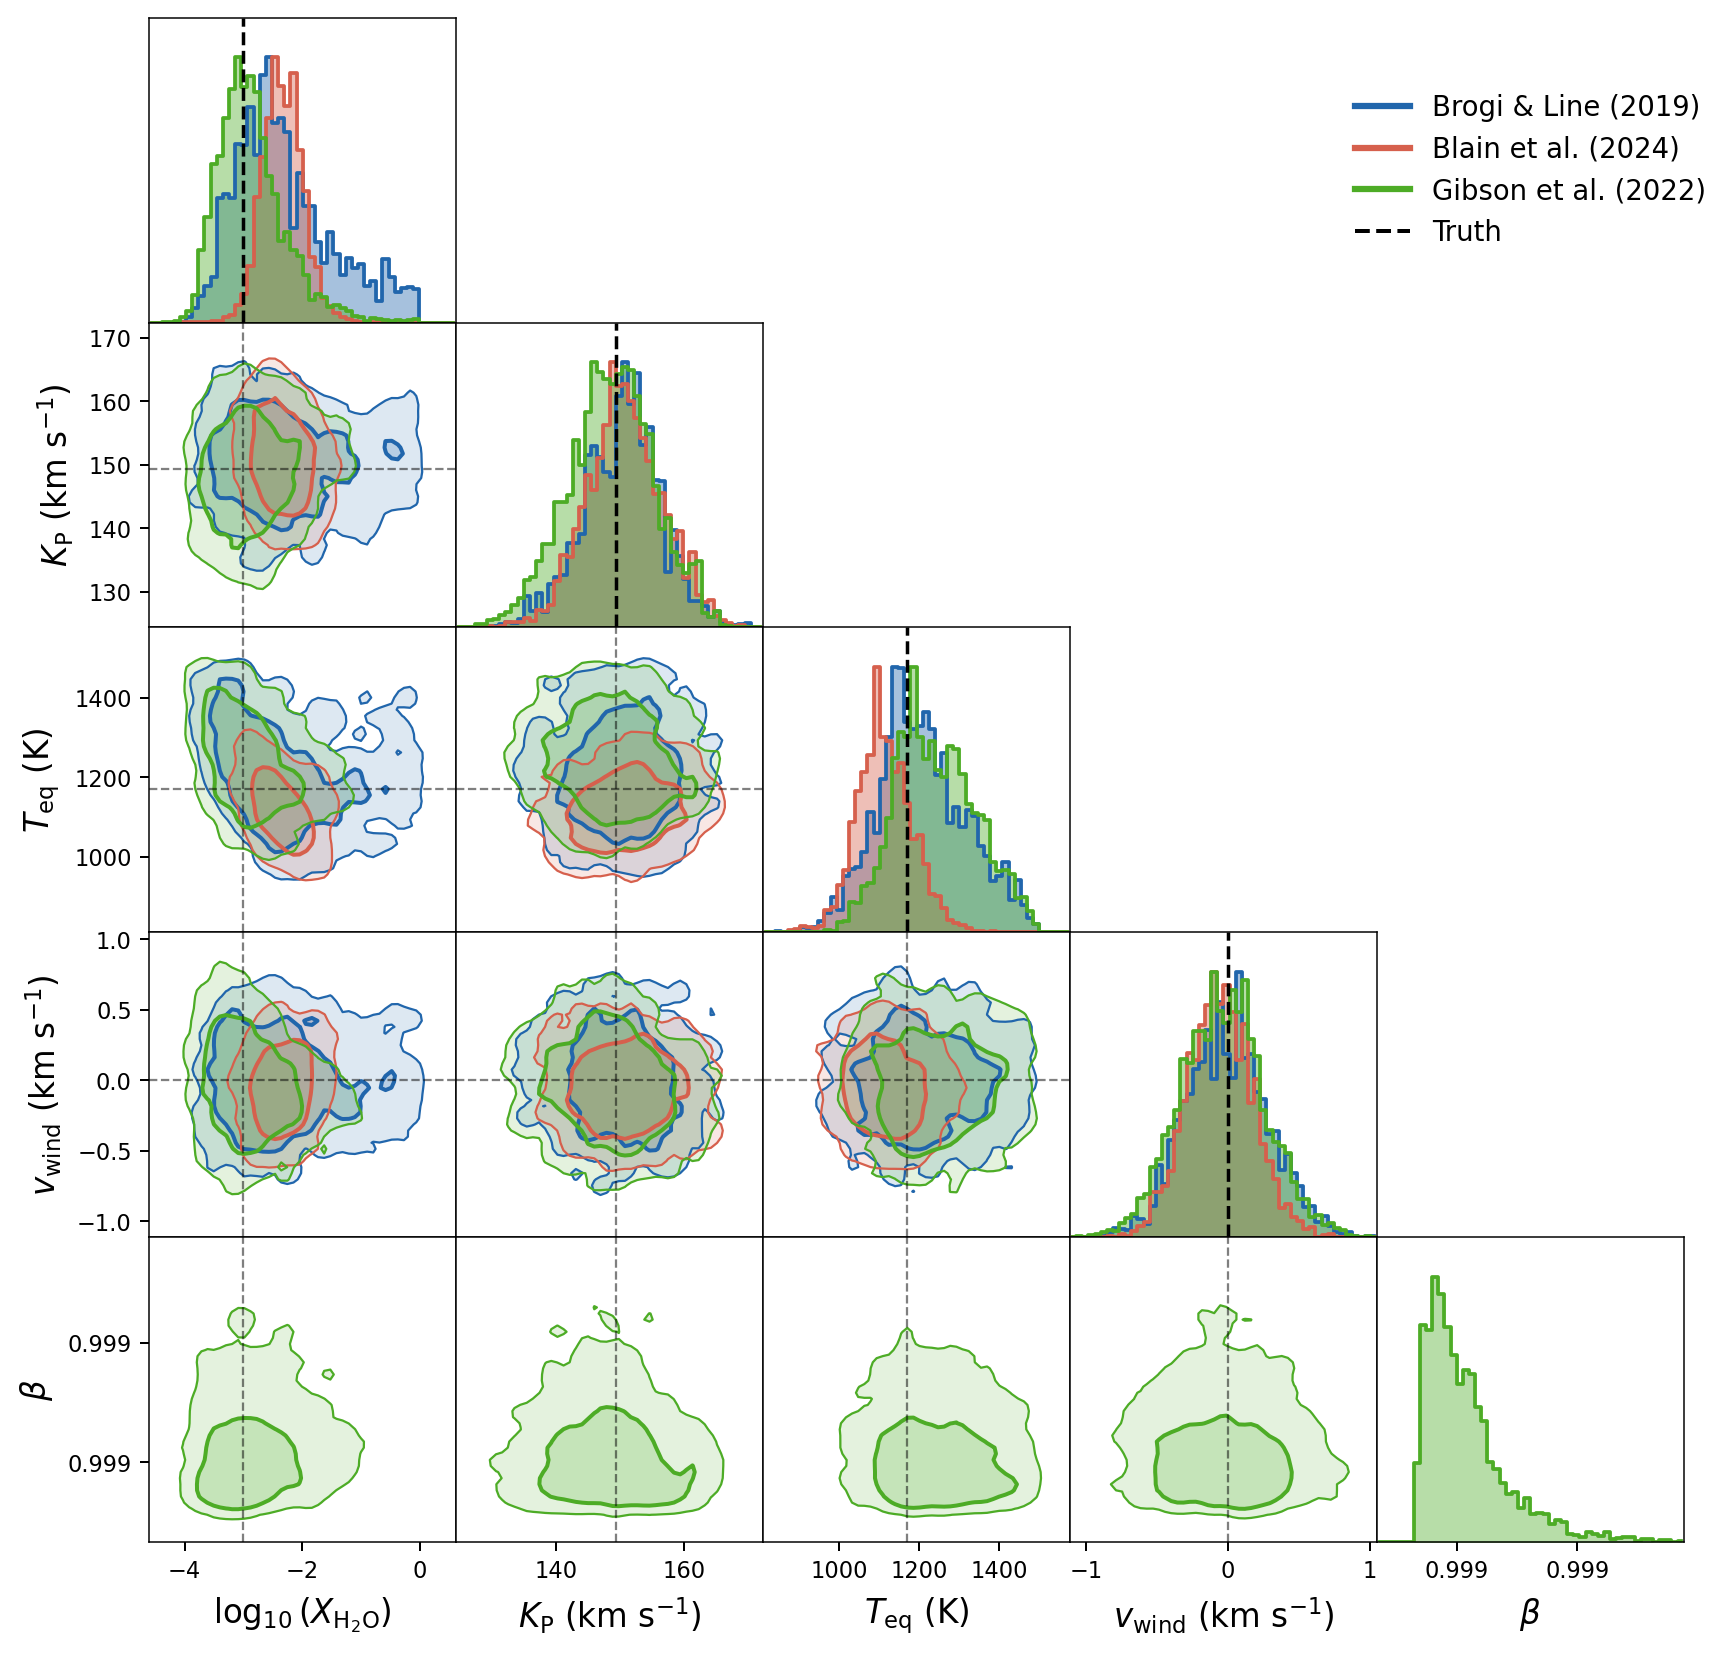
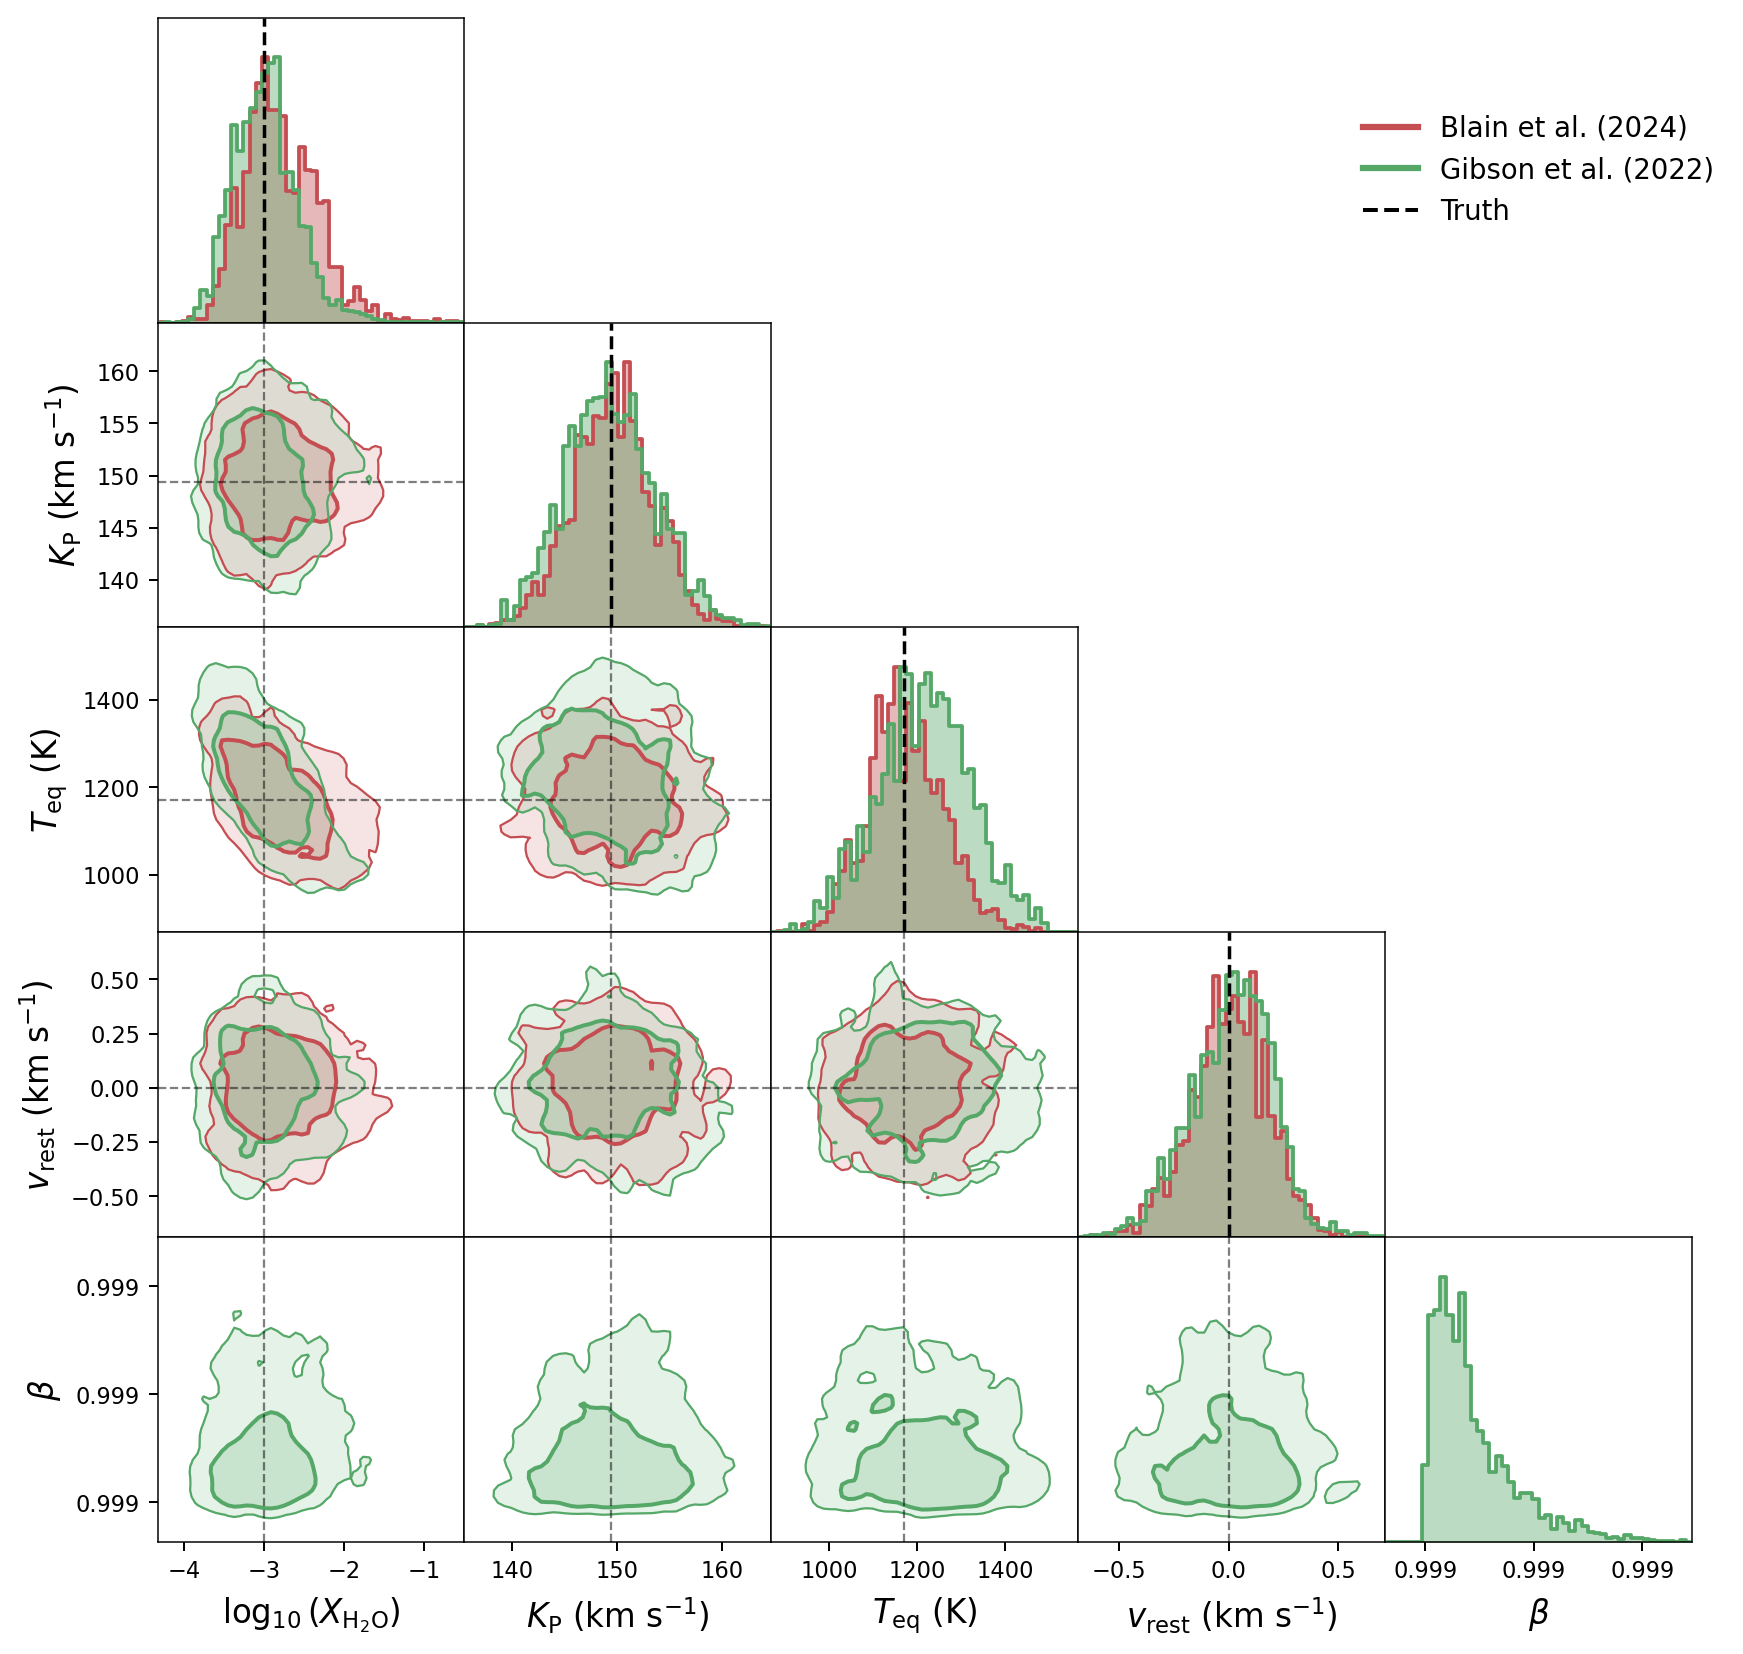
Tutorial 7 noiseless bias test with Blain24 and Gibson22; separate preparation and retrieval-framework docs; add petitRADTRANS pointers

diff --git a/docs/tutorial.md b/docs/tutorial.md
@@ -695,6 +695,8 @@ The `dimensionality` field selects the free parameters, and the `log_likelihood`
 
 We note that `1D_Gibson22` must be paired with `Gibson22`, and no other. The β parameter is the noise-scaling degree of freedom that makes the Gibson22 formulation self-consistent; pairing it with Blain24 or BL19 would sample β without ever using it, yielding a meaningless posterior. The simulator raises a `ValueError` on any invalid combination.
 
+The ASL19 preparation pipeline (Sánchez-López et al. 2019) was introduced as a detection method and does not define a retrieval likelihood of its own. Because it is SYSREM-based, retrievals that use the ASL19 preparation fall back to the Gibson22 framework: the forward model is filtered with the same linear projection and evaluated with the Gibson22 log-likelihood (with the β noise scaling). In practice this means pairing `pipeline.name: ASL19` with `dimensionality: 1D_Gibson22` and `log_likelihood: Gibson22`.
+
 The `live_points` field sets the number of active points that MultiNest maintains during nested sampling. A larger value produces a more accurate posterior and a more reliable evidence estimate, at a run time that grows roughly linearly with it. In our experience 200 is adequate for a four-parameter retrieval, and 500 to 1000 is appropriate for publication-quality posteriors. The full run time is typically one to four hours, depending on `live_points`, the number of orders, and the machine.
 
 The retrieval requires three additional dependencies:
@@ -724,7 +726,7 @@ Posterior distributions from a `1D` Blain24 retrieval of a single noiseless CARM
 
 ## Tutorial 7: Assessing retrieval pipeline bias
 
-> **Approximate run time:** the illustrative scripts run in seconds; each single-order retrieval takes ~10 to 20 min, so the full set of six (three noiseless, three noisy) is ~1 to 3 hours.
+> **Approximate run time:** the illustrative scripts run in seconds; each single-order retrieval takes ~20 to 80 min, so the full set of four (two noiseless, two noisy) is ~2 to 4 hours.
 
 Before trusting retrieved atmospheric parameters from real data, it is essential to verify that the pipeline itself does not introduce systematic offsets in the posterior. This is commonly referred to as a **pipeline bias test**, or **unbiasedness test**. EXoPLORE supports a clean, fast version of this test using noiseless simulated data.
 
@@ -736,7 +738,7 @@ A retrieval pipeline is *unbiased* if, when the forward model used in the likeli
 
 In order to isolate pure pipeline systematics, the test should be run with `noiseless: true`, which removes the stochastic noise floor. With perfect noiseless data and the correct forward model, the likelihood should peak sharply at the injected truth. Any offset is consequently pure pipeline bias, not noise. With noisy data, biases can be hidden inside the noise uncertainty and require many injection-recovery realisations to detect.
 
-> **We note that** SYSREM-based pipelines (ASL19, Gibson22) may be problematic with noiseless data, since SYSREM can over-subtract the signal in the absence of noise. The polynomial pipelines BL19 and Blain24 are therefore the natural choices for a noiseless bias test. Gibson22 remains usable in this regime provided its β parameter is pinned near 1 (see below).
+> **We note that** SYSREM-based pipelines (ASL19, Gibson22) may be problematic with noiseless data, since SYSREM can over-subtract the signal in the absence of noise. The polynomial pipeline Blain24 is therefore a natural choice for a noiseless bias test. Gibson22 remains usable in this regime provided its β parameter is pinned near 1 (see below). We omit the BL19 log-likelihood from this test for now: its scale-free form collapses to a near-delta posterior on noiseless data, which magnifies any residual model-data mismatch into a spurious offset, so it is not a reliable estimator of pipeline bias in this regime.
 
 ### Step 1: Configure the test
 
@@ -762,7 +764,7 @@ To keep the retrieval fast (minutes rather than hours), we restrict the simulati
     }
   },
   "pipeline": {
-    "name": "BL19",
+    "name": "Blain24",
     "prepare_template": true
   },
   "retrieval": {
@@ -776,12 +778,9 @@ To keep the retrieval fast (minutes rather than hours), we restrict the simulati
 }
 ```
 
-Ready-made configs are provided for each pipeline. Run the three retrievals sequentially:
+Ready-made configs are provided for each pipeline. Run the two retrievals sequentially:
 
 ```bash
-# Brogi & Line (2019), BL19 preparation pipeline, BL19 log-likelihood
-python -u scripts/run_exoplore.py configs/hd189733b_carmenes_retrieval_bl19_noiseless.json --run
-
 # Blain et al. (2024), Blain24 preparation pipeline, Blain24 log-likelihood
 python -u scripts/run_exoplore.py configs/hd189733b_carmenes_retrieval_blain24_noiseless.json --run
 
@@ -789,11 +788,11 @@ python -u scripts/run_exoplore.py configs/hd189733b_carmenes_retrieval_blain24_n
 python -u scripts/run_exoplore.py configs/hd189733b_carmenes_retrieval_gibson22_noiseless.json --run
 ```
 
-Each run takes a few minutes at 200 live points on a single order.
+Each run takes tens of minutes at 200 live points on a single order.
 
 ### Step 2: Run
 
-See the terminal commands in Step 1 above. Run all three configs to reproduce the overlay corner plot.
+See the terminal commands in Step 1 above. Run both configs to reproduce the overlay corner plot.
 
 ### Step 3: Interpret the results
 
@@ -806,15 +805,14 @@ Open `<run_name>/plots/retrieval_night_0_corner.pdf`. The truth values (plotted 
 | v_rest (km/s) | Posterior offset from 0 (no net velocity injected) |
 | log₁₀(VMR) | Broader, but centred near the injected abundance |
 
-The log-evidence `ln Z` printed to the terminal should be a meaningful negative number (e.g. -10 to -50). A value near 0 indicates the likelihood is flat and the test has failed (the run log should be checked for error messages).
+The log-evidence `ln Z` printed to the terminal by MultiNest is a useful sanity check: it should be a finite, well-behaved value rather than a diverging or `NaN` one (the run log should be checked for error messages if it is).
 
-**Passing criterion:** Kp, T_eq, and v_rest posteriors all cover their truth values within 1 to 2σ. A representative result:
+**Passing criterion:** Kp, T_eq, and v_rest posteriors all cover their truth values within 1 to 2σ. A representative Blain24 result:
 
 ```
-Kp   = 149.9 km/s  (truth 149.4 km/s)   ← <1 km/s offset
-T_eq = 1186  K     (truth 1170 K)        ← within 1σ
-v_rest = -0.06 km/s (truth 0)            ← essentially zero
-ln Z = -10.8                             ← meaningful evidence
+Kp   = 149.6 km/s  (truth 149.4 km/s)   ← within 1 sigma
+T_eq = 1175  K     (truth 1170 K)        ← within 1 sigma
+v_rest = 0.0 km/s  (truth 0)             ← essentially zero
 ```
 
 confirms no pipeline bias on the dynamical parameters.
@@ -822,19 +820,19 @@ confirms no pipeline bias on the dynamical parameters.
 :::{figure} figures/tutorial_retrieval_bias_corner.png
 :width: 90%
 :align: center
-Posterior probability distributions for the retrieved atmospheric parameters of HD 189733 b (CARMENES NIR, order 23, noiseless simulation), obtained with the log-likelihood formulations of Brogi & Line (2019; blue), Blain et al. (2024; red), and Gibson et al. (2022; green) using nested sampling with 200 live points. Gibson et al. (2022) includes the additional noise-scaling parameter β, shown in the bottom row and column; β is pinned near 1 via an informative prior [0.999, 1.001] (see below). Contours enclose the 68 and 95 per cent credible regions. Black dashed lines mark the injected truth values (log₁₀(X<sub>H₂O</sub>) = -3.0, K<sub>P</sub> = 149.4 km s<sup>-1</sup>, T<sub>eq</sub> = 1170 K, v<sub>rest</sub> = 0 km s<sup>-1</sup>, β = 1). All three formulations recover all truth values within 1 to 2σ.
+Posterior probability distributions for the retrieved atmospheric parameters of HD 189733 b (CARMENES NIR, order 23, noiseless simulation), obtained with the log-likelihood formulations of Blain et al. (2024; red) and Gibson et al. (2022; green) using nested sampling with 200 live points. Gibson et al. (2022) includes the additional noise-scaling parameter β, shown in the bottom row and column; β is pinned near 1 via an informative prior [0.999, 1.001] (see below), and its truth line is omitted since it is fixed by construction. Contours enclose the 68 and 95 per cent credible regions. Black dashed lines mark the injected truth values (log₁₀(X<sub>H₂O</sub>) = -3.0, K<sub>P</sub> = 149.4 km s<sup>-1</sup>, T<sub>eq</sub> = 1170 K, v<sub>rest</sub> = 0 km s<sup>-1</sup>). Both formulations recover all truth values within 1 to 2σ. The BL19 log-likelihood is omitted from this noiseless test (see the note above).
 :::
 
-Once you have run the three retrievals, the overlay corner plot can be generated with:
+Once you have run the two retrievals, the overlay corner plot can be generated with:
 
 ```bash
 python scripts/plot_corner_overlay.py \\
   --output-root /path/to/EXoPLORE_clean_run/HD189733b/CARMENES_NIR/transit \\
-  --runs  BL19_withsignal_1nights_SNR_comb1_simdata_noiseless_stdnoisex1 \\
-          Blain24_withsignal_1nights_SNR_comb1_simdata_noiseless_stdnoisex1 \\
-          Gibson22_withsignal_1nights_SNR_comb1_simdata_noiseless_stdnoisex1 \\
-  --labels "Brogi & Line (2019)" "Blain et al. (2024)" "Gibson et al. (2022)" \\
+  --runs  Blain24_withsignal_1nights_SNR_comb1_simdata_noiseless_stdnoisex1 \\
+          Gibson22_withsignal_N4_1nights_SNR_comb1_simdata_noiseless_stdnoisex1 \\
+  --labels "Blain et al. (2024)" "Gibson et al. (2022)" \\
   --truths -3.0 149.4 1170.0 0.0 \\
+  --colors "#c44e52" "#55a868" \\
   --output docs/figures/tutorial_retrieval_bias_corner.png
 ```
 

diff --git a/docs/concepts.md b/docs/concepts.md
@@ -179,25 +179,27 @@ Each recipe was introduced by a specific study, on a specific instrument and
 target. We summarise below what each does and where it was developed, and name
 the EXoPLORE routines that implement it.
 
+This section concerns the **data preparation** only. The log-likelihood
+formulations used in the retrievals (BL19, Blain24, Gibson22) are described
+separately in [Section 5](#5-from-cross-correlation-to-a-likelihood).
+
 - **BL19** (Brogi & Line [2019](https://doi.org/10.3847/1538-3881/aaffd3), AJ,
-  157, 114). Introduced as part of a cross-correlation-to-likelihood retrieval
-  framework, validated on simulated photon-noise-dominated CRIRES K-band data and
-  applied to real CRIRES K-band spectra of HD 209458 b and HD 189733 b. Each
-  spectrum is normalised by the median of its brightest pixels, and the tellurics
-  are removed in two stages: a low-order polynomial fit to the master (median)
-  spectrum, then a per-channel polynomial in time. Implemented in
-  `exoplore.pipelines.bl19` as `pipeline_BL19_norm` and `pipeline_BL19_tellcorr`,
-  with telluric masking via `mask_tellurics`.
+  157, 114). The preparation was demonstrated on simulated and real CRIRES K-band
+  spectra of HD 209458 b and HD 189733 b. Each spectrum is normalised by the
+  median of its brightest pixels, and the tellurics are removed in two stages: a
+  low-order polynomial fit to the master (median) spectrum, then a per-channel
+  polynomial in time. Implemented in `exoplore.pipelines.bl19` as
+  `pipeline_BL19_norm` and `pipeline_BL19_tellcorr`, with telluric masking via
+  `mask_tellurics`.
 - **Blain24** (Blain, Sánchez-López & Mollière
   [2024](https://arxiv.org/abs/2402.14001), AJ, 167, 179). Developed on CARMENES
-  near-infrared (R ~ 80,400) transmission data of HD 189733 b, with a formal
-  derivation of how to prepare the forward model to match the data and a Bias
-  Pipeline Metric to quantify residual bias. The throughput and blaze are removed
-  with a per-exposure low-order polynomial over wavelength
+  near-infrared (R ~ 80,400) transmission data of HD 189733 b. The throughput and
+  blaze are removed with a per-exposure low-order polynomial over wavelength
   (`remove_throughput_fit`), and the tellurics with a per-channel low-order
   polynomial in airmass on the log-flux (`remove_telluric_lines_fit`), masking
   channels where the fitted transmittance falls below 0.8. Both live in
-  `exoplore.pipelines.blain24`.
+  `exoplore.pipelines.blain24`. This preparation is also implemented natively in
+  petitRADTRANS; see its [retrieval documentation](https://petitradtrans.readthedocs.io/en/latest/content/notebooks/retrieval_spectral_model.html).
 - **ASL19** (Sánchez-López et al.
   [2019](https://doi.org/10.1051/0004-6361/201936084), A&A, 630, A53). Developed
   for the CARMENES near-infrared detection of water vapour in HD 209458 b, using
@@ -209,11 +211,7 @@ the EXoPLORE routines that implement it.
 - **Gibson22** (Gibson et al. [2022](https://doi.org/10.1093/mnras/stac091),
   MNRAS, 512, 4618). Developed on UVES optical transmission spectroscopy of the
   ultra-hot Jupiter WASP-121b. It applies an out-of-transit normalisation
-  followed by SYSREM detrending (`sysrem`), and, for retrievals, filters the
-  forward model with the same operator represented as a single linear projection
-  rather than re-running SYSREM at every likelihood call
-  (`SYSREM_filtering_projector` and `filter_model_singleorder`), while a β
-  parameter infers the noise scale during the fit.
+  followed by SYSREM detrending (`sysrem`).
 
 ```{figure} figures/pipeline_steps.png
 :width: 90%
@@ -373,7 +371,10 @@ ln L_Blain24 = -(1/2) · Σ_n [ (d(n) - m(n)) / σ(n) ]².
 ```
 
 Each pixel is weighted by `1/σ(n)²`. The formulation derives from the framework
-of Gibson et al. (2020, MNRAS, 493, 2215).
+of Gibson et al. (2020, MNRAS, 493, 2215). The Blain24 method and its retrieval
+framework are also implemented natively in petitRADTRANS, where they are handled
+directly; we encourage readers to consult the [petitRADTRANS retrieval
+documentation](https://petitradtrans.readthedocs.io/en/latest/content/notebooks/retrieval_spectral_model.html).
 
 **Gibson et al. (2022, MNRAS, 512, 4618), `Gibson22`.** The same chi-square with a
 global scale factor `β` multiplying the uncertainties, plus a `-N ln β` penalty.
